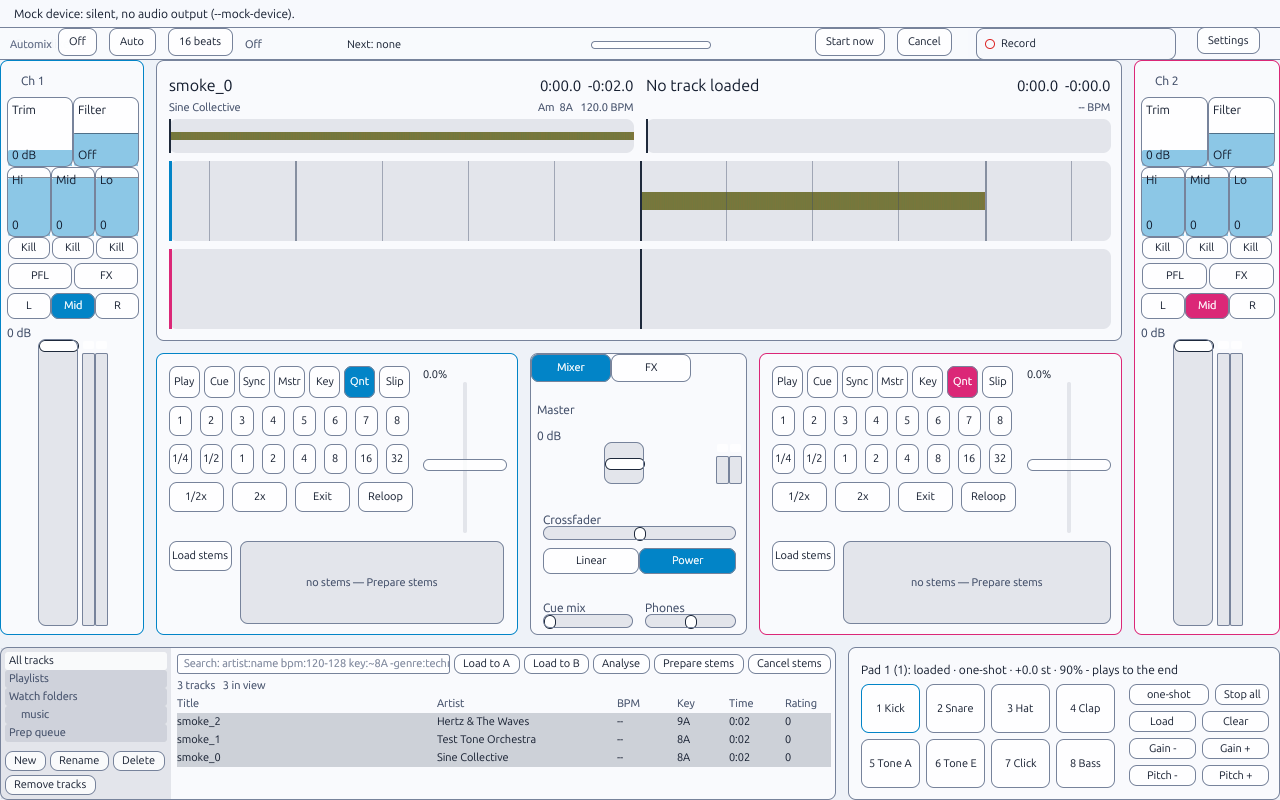
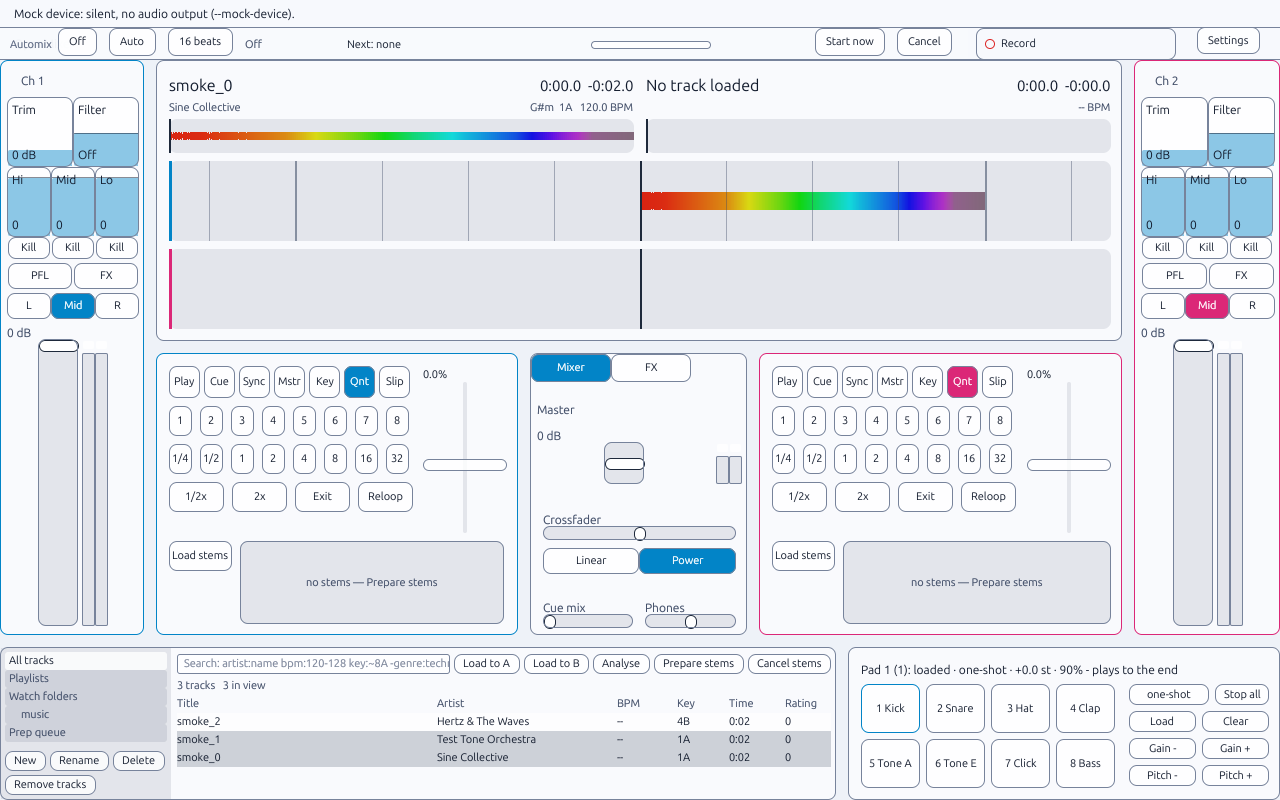
feat(demo): sweep tracks so the demo waveform shows the whole spectrum colour (E10)
The generated demo tracks were single sine tones, which draw as one hue.
They are now logarithmic sweeps, so the demo strips and the refreshed
main-dark and main-daylight screenshots show the full hue curve of each
theme.

Changed region(s): [[0.125, 0.875, 0.6562, 0.9375], [0.5, 0.2188, 0.7812, 0.2812], [0.125, 0.125, 0.5, 0.1875]]

diff --git a/crates/openmixer/src/library_smoke.rs b/crates/openmixer/src/library_smoke.rs
@@ -32,6 +32,9 @@ const DEMO_TAGS: [(&str, &str); 3] = [
     ("Hertz & The Waves", "Ambient"),
 ];
 
+/// Start and end frequency of each generated track's sweep, cycled (the second one falls).
+const DEMO_SWEEPS: [(f64, f64); 3] = [(40.0, 14_000.0), (12_000.0, 50.0), (60.0, 9_000.0)];
+
 /// A per-run folder under the system temp directory (the library file and the music live there).
 pub fn scratch_dir() -> PathBuf {
     std::env::temp_dir().join(format!("openmixer-smoke-{}", std::process::id()))
@@ -66,6 +69,23 @@ fn info_chunk(tags: &[(&str, &str)]) -> Vec<u8> {
 pub fn write_wav_tagged(path: &Path, freq: f32, tags: &[(&str, &str)]) -> io::Result<()> {
     write_pcm(path, SECONDS, tags, |n| {
         let phase = f64::from(n) * f64::from(freq) * std::f64::consts::TAU / f64::from(RATE);
+        (phase.sin() * 0.25 * f64::from(i16::MAX)) as i16
+    })
+}
+
+/// A logarithmic sweep from `from_hz` to `to_hz` over the track, so the demo waveform shows every
+/// hue of the spectrum colour (a plain sine tone is one hue).
+pub fn write_sweep_track(
+    path: &Path,
+    from_hz: f64,
+    to_hz: f64,
+    tags: &[(&str, &str)],
+) -> io::Result<()> {
+    let ratio = to_hz / from_hz;
+    let phase_scale = std::f64::consts::TAU * from_hz * SECONDS / ratio.ln();
+    write_pcm(path, SECONDS, tags, move |n| {
+        let progress = f64::from(n) / (SECONDS * f64::from(RATE));
+        let phase = phase_scale * (ratio.powf(progress) - 1.0);
         (phase.sin() * 0.25 * f64::from(i16::MAX)) as i16
     })
 }
@@ -137,11 +157,12 @@ pub fn ingest_generated(services: &mut LibraryServices, root: &Path) -> Result<u
     let music = root.join("music");
     fs::create_dir_all(&music)?;
     for i in 0..TRACKS {
-        let freq = 220.0 * (i as f32 + 1.0);
+        let (low, high) = DEMO_SWEEPS[i % DEMO_SWEEPS.len()];
         let (artist, genre) = DEMO_TAGS[i % DEMO_TAGS.len()];
-        write_wav_tagged(
+        write_sweep_track(
             &music.join(format!("smoke_{i}.wav")),
-            freq,
+            low,
+            high,
             &[
                 ("INAM", &format!("smoke_{i}")),
                 ("IART", artist),

diff --git a/crates/openmixer/src/gui.rs b/crates/openmixer/src/gui.rs
@@ -361,7 +361,7 @@ pub fn main(args: &[String]) -> ExitCode {
         settings: Some(settings),
         library: library.clone(),
         library_rows_out: smoke.then(|| Arc::clone(&rows_out)),
-        // The demo's tracks are sine tones with no tempo: give deck A a fixed grid once its
+        // The demo's tracks are sweeps with no tempo: give deck A a fixed grid once its
         // analysis lands, so screenshots show beat ticks.
         demo_grid_bpm: demo.then_some(120.0),
         samples,

diff --git a/crates/om-ui-gpui/src/deck_view.rs b/crates/om-ui-gpui/src/deck_view.rs
@@ -13,7 +13,7 @@ use gpui::{
     canvas, div, fill, point, prelude::*, px, size, Bounds, Context, Div, MouseButton,
     MouseDownEvent, Pixels, Window,
 };
-use om_analysis::WaveformData;
+use om_analysis::{WaveformData, WaveformPoint};
 use om_ui::geometry::Rect;
 use om_ui::stem_binding::{MAX_VOLUME, STEM_NAMES};
 use om_ui::style::LookAndFeel;
